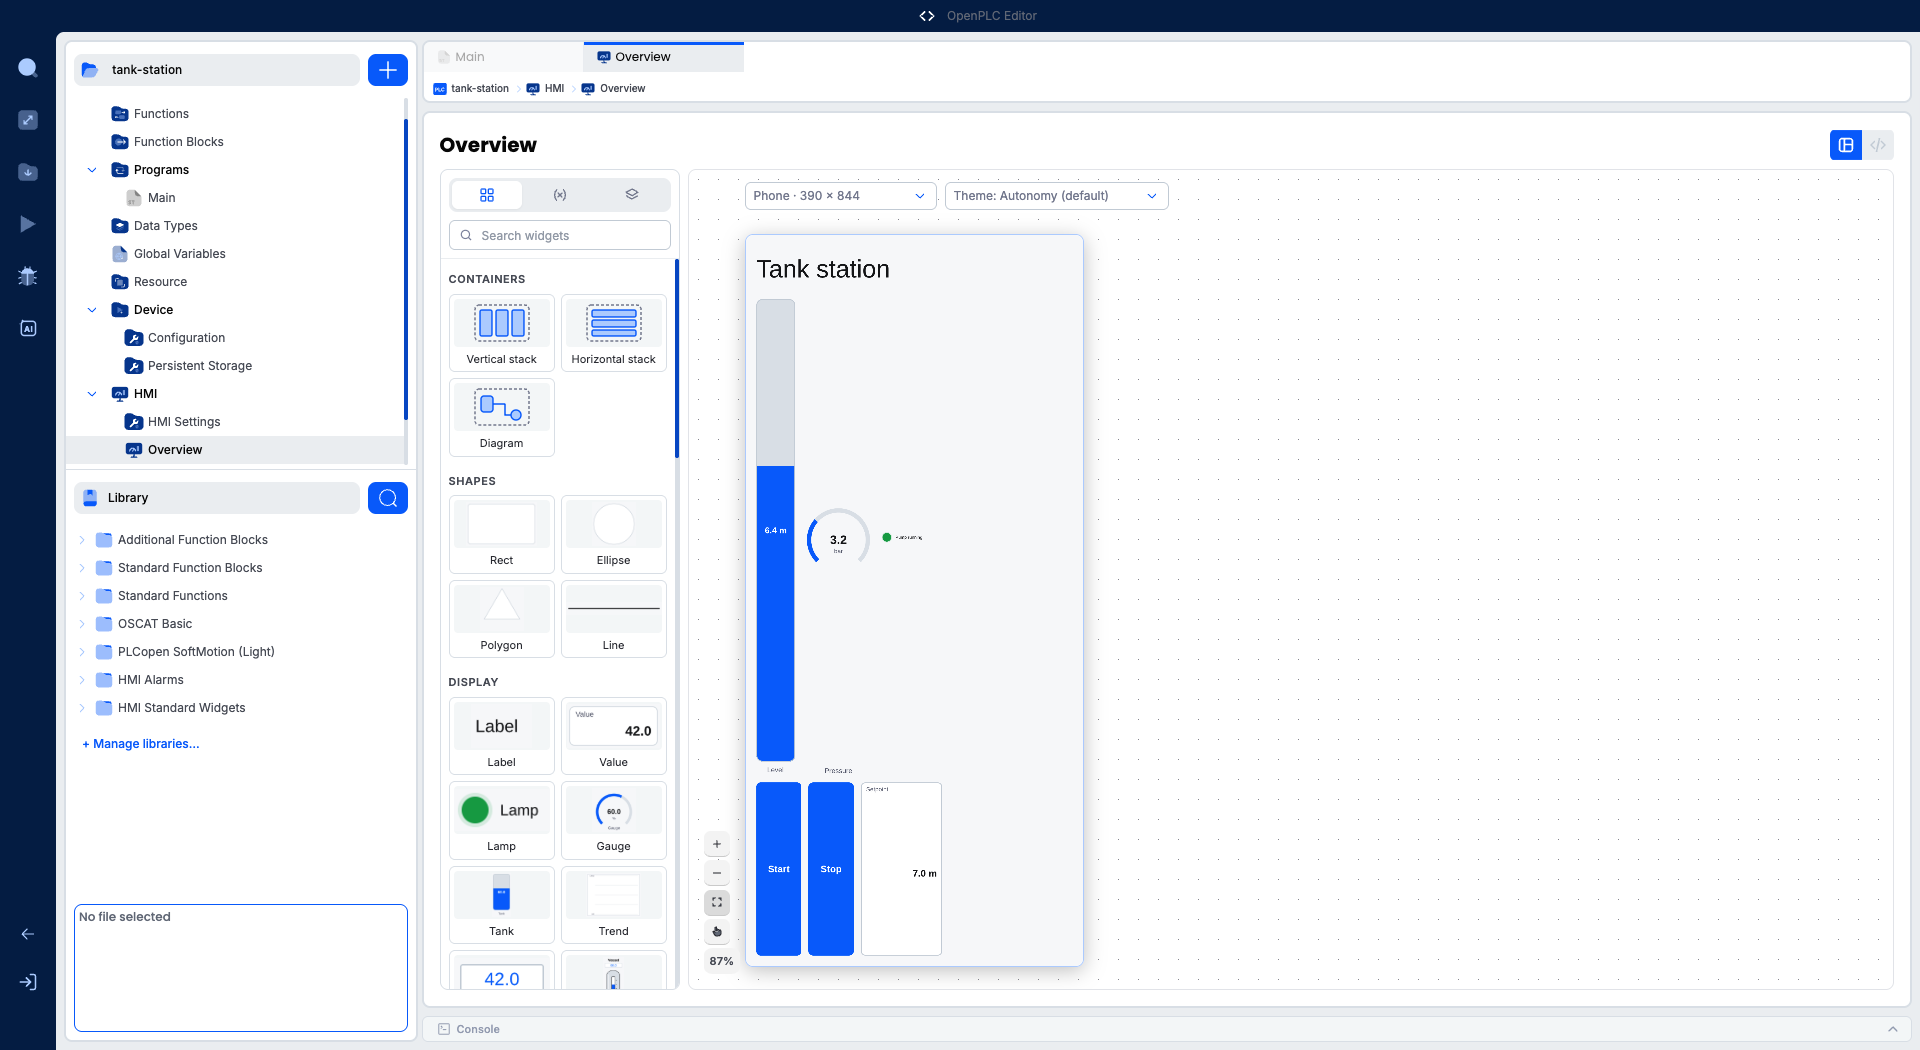
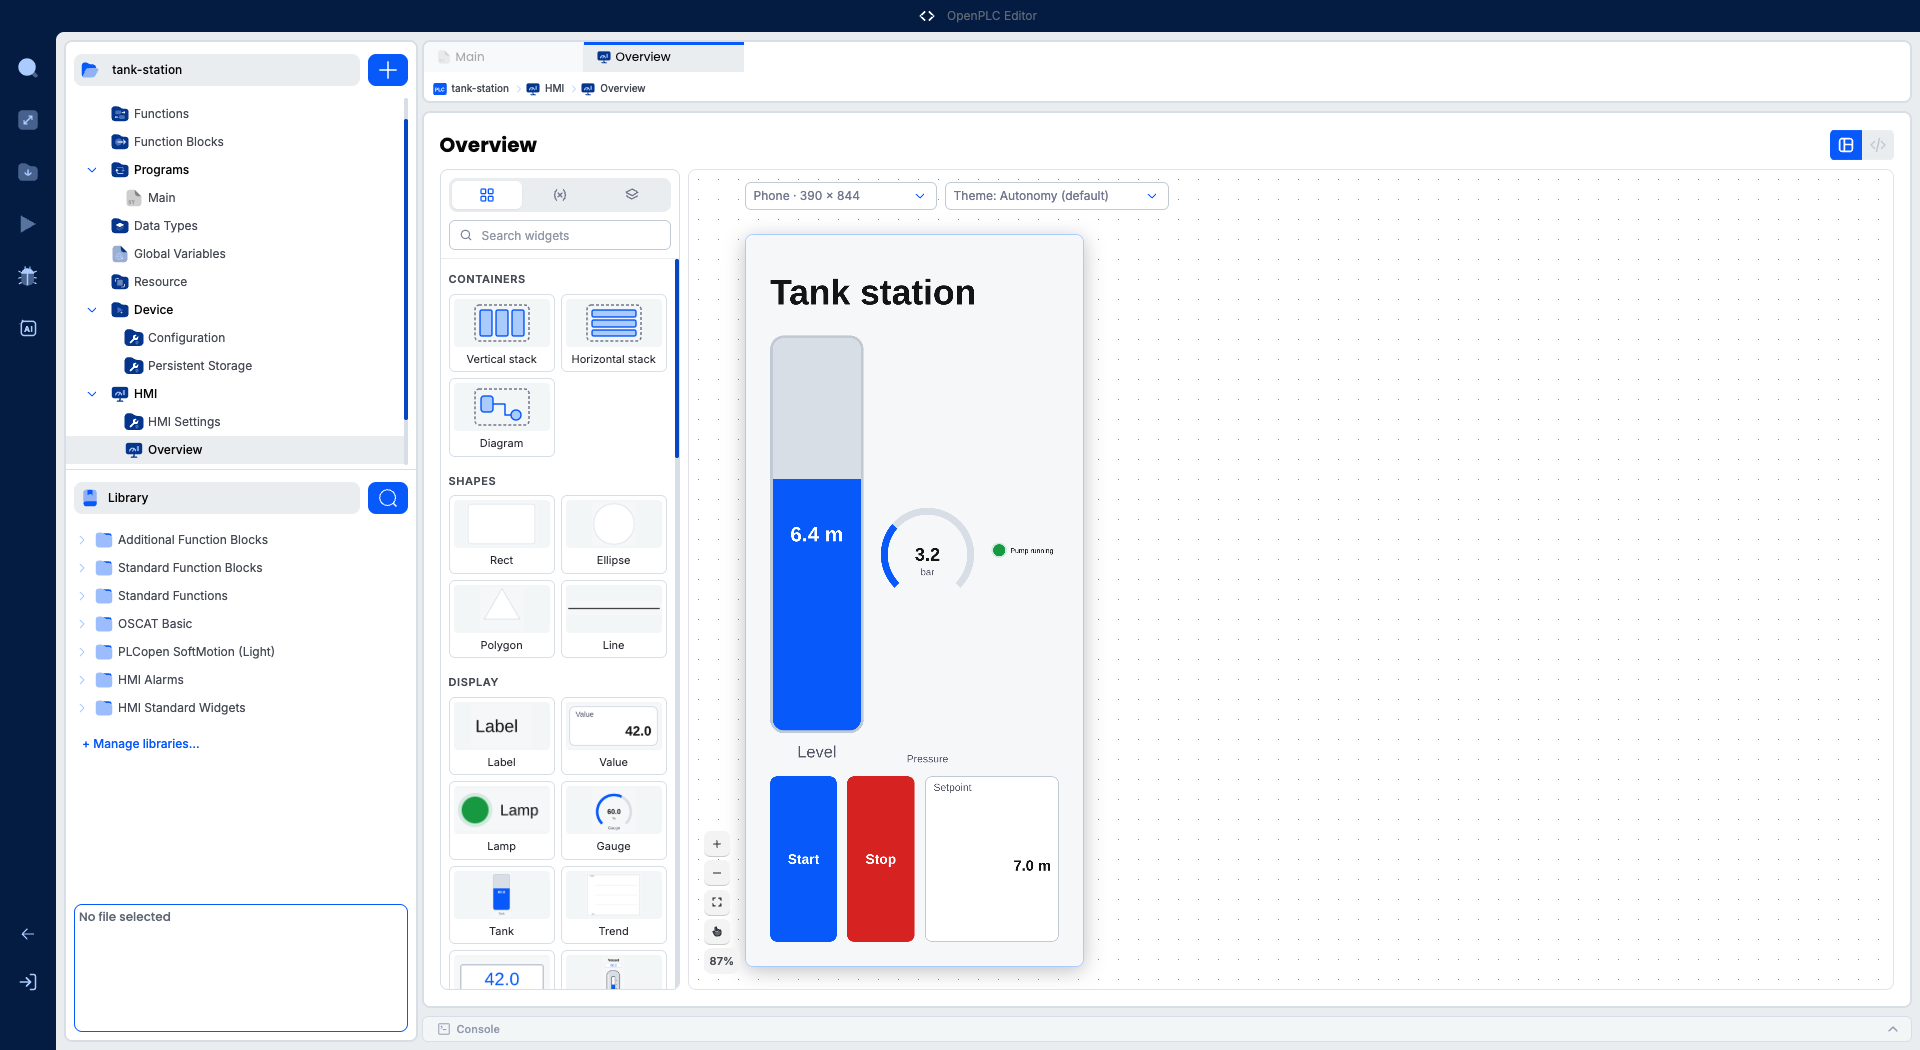
Share out the room in the HMI screen walkthrough
The walkthrough now sets each element's span so the finished screen
fills the display, with padding, gaps, a bold title and a red Stop
button, and the layout page shows that finished screen.

Claude-Session: https://claude.ai/code/session_01YB59x4JD6LNzCP8s5g9YDa

Changed region(s): [[0.375, 0.2438, 0.5312, 0.9143]]

diff --git a/docs/openplc-editor/hmi/designing-screens.md b/docs/openplc-editor/hmi/designing-screens.md
@@ -125,20 +125,45 @@ For the tank station, on the **Style** tab:
 - Tank: **Caption** `Level`, **Unit** `m`, **MaxValue** `10.0`. The tank now fills to 6.4 of 10.
 - Gauge: **Caption** `Pressure`, **Unit** `bar`, **MaxValue** `10.0`.
 - Lamp: **Caption** `Pump running`.
-- Numeric entry: **Unit** `m`, **MinValue** `0.0`, **MaxValue** `10.0`. Operators cannot enter a setpoint outside these limits.
-- Title: **Size** `24`.
+- Numeric entry: **Caption** `Setpoint`, **Unit** `m`, **MinValue** `0.0`, **MaxValue** `10.0`. Operators cannot enter a setpoint outside these limits.
+- Title: **Size** `24`, **Font** `Bold`.
+- Stop button: **AccentColor** `Danger`, so it stands out in red.
 
-![The Layers tab listing the screen's elements, and the tank selected with its Style tab showing MinValue 0.0, MaxValue 10.0, Decimals 1, Unit m and Caption Level. The tank now reads 6.4 m and the gauge 3.2 bar](images/steps-07-properties.png)
+![The Stop button selected, with its Style tab showing the Text Stop and the AccentColor Danger. The button is now red, the title is bold, the tank reads 6.4 m and the gauge 3.2 bar](images/steps-07-properties.png)
 
 Colors offer the theme's colors (like Accent, Danger or Surface), which follow the screen's theme, or a fixed color of your choice. **Show in code** at the bottom of the card opens the code view at that element's declaration.
 
 ---
 
-## Step 7. Try it
+## Step 7. Share out the room
+
+Each widget landed at its natural size, so the rows are only half full. Give each element the share of its stack you want, with **Span** on the **Layout** tab. A Span is a percentage of the stack, so these values fill the screen on any display:
+
+| Stack | Element | Span |
+|---|---|---|
+| The screen | Title | `10` |
+| | Process row | `65` |
+| | Commands row | `25` |
+| Process row | Tank | `35` |
+| | Gauge | `40` |
+| | Lamp | `25` |
+| Commands row | Start | `25` |
+| | Stop | `25` |
+| | Setpoint | `50` |
+
+You can also drag an element's handle along its stack instead of typing a Span. To leave some room around and between the widgets, set the screen container's **Padding** to `16` and each stack's **Gap** to `12`.
+
+![The finished screen filling the canvas: the bold title, a row with the tank, a large gauge and the pump lamp, and a row with the Start and Stop buttons and a wide Setpoint entry. The gauge is selected, and its Layout tab shows AutoSize on and a Span of 40](images/steps-08-fill-rows.png)
+
+See [Screen layout that fits any display](layout) for how spans are shared out.
+
+---
+
+## Step 8. Try it
 
 The canvas always runs the screen. To operate it the way an operator would, click the hand button under the zoom controls. Presses now reach the widgets instead of selecting them: press **Start** and **Stop**, or tap the setpoint to type a value. Press **Esc** to return to designing.
 
-![The finished screen in preview mode, outlined in blue, with the notice Preview mode, press Esc to exit](images/steps-08-preview-mode.png)
+![The finished screen in preview mode, outlined in blue, with the notice Preview mode, press Esc to exit](images/steps-09-preview-mode.png)
 
 Most edits show at once. Some changes, like editing code, need a new build of the preview: the editor builds it in the background on its own, and the last result stays on screen meanwhile.
 
@@ -146,11 +171,11 @@ Most edits show at once. Some changes, like editing code, need a new build of th
 
 ---
 
-## Step 8. Look at the code
+## Step 9. Look at the code
 
 Every screen is Structured Text. Click the **Code** button at the top right to see what the designer wrote for you:
 
-![The code view of the Overview screen: the element declarations with their properties and spans, the three variable bindings, the Start and Stop button handling and the setpoint binding](images/steps-09-code-view.png)
+![The code view of the Overview screen: the element declarations with their properties and spans, the three variable bindings, the Start and Stop button handling and the setpoint binding](images/steps-10-code-view.png)
 
 Each element is a declaration with its properties, and the variables you dropped are assignments in the body. Changes in one view appear in the other. You rarely need to write screen code, but it is there when you want it: to compute a value, to run logic on a button press, or to navigate between screens. See [Screen code](screen-code).
 

diff --git a/docs/openplc-editor/hmi/screen-code.md b/docs/openplc-editor/hmi/screen-code.md
@@ -13,16 +13,16 @@ This is the Overview screen from [Designing screens](designing-screens), as the 
 ```st
 FUNCTION_BLOCK Overview EXTENDS HmiScreen
   VAR
-    HorizontalStack1 : HmiHorizontalStack := (AutoSize := TRUE, Span := 100);
-    Label1 : HmiLabel := (Parent := 'HorizontalStack1', AutoSize := TRUE, Span := 9, Text := 'Tank station', Size := 24);
-    VerticalStack1 : HmiVerticalStack := (Parent := 'HorizontalStack1', AutoSize := TRUE, Span := 91);
-    Tank1 : HmiTank := (Parent := 'VerticalStack1', AutoSize := TRUE, Span := 13, Caption := 'Level', Unit := 'm', MaxValue := 10.0);
-    Gauge1 : HmiGauge := (Parent := 'VerticalStack1', AutoSize := TRUE, Span := 24, Caption := 'Pressure', Unit := 'bar', MaxValue := 10.0);
-    Lamp1 : HmiLamp := (Parent := 'VerticalStack1', AutoSize := TRUE, Span := 15, Caption := 'Pump running');
-    VerticalStack2 : HmiVerticalStack := (Parent := 'HorizontalStack1', AutoSize := TRUE, Span := 33);
-    Button1 : HmiButton := (Parent := 'VerticalStack2', AutoSize := TRUE, Span := 15, Text := 'Start');
-    Button2 : HmiButton := (Parent := 'VerticalStack2', AutoSize := TRUE, Span := 15, Text := 'Stop');
-    NumericInput1 : HmiNumericInput := (Parent := 'VerticalStack2', AutoSize := TRUE, Span := 27, Unit := 'm', MinValue := 0.0, MaxValue := 10.0);
+    HorizontalStack1 : HmiHorizontalStack := (AutoSize := TRUE, Span := 100, Padding := 16, Gap := 12);
+    Label1 : HmiLabel := (Parent := 'HorizontalStack1', AutoSize := TRUE, Span := 10, Text := 'Tank station', Size := 24, Font := HMI_FONT#Bold);
+    VerticalStack1 : HmiVerticalStack := (Parent := 'HorizontalStack1', AutoSize := TRUE, Span := 65, Gap := 12);
+    Tank1 : HmiTank := (Parent := 'VerticalStack1', AutoSize := TRUE, Span := 35, Caption := 'Level', Unit := 'm', MaxValue := 10.0);
+    Gauge1 : HmiGauge := (Parent := 'VerticalStack1', AutoSize := TRUE, Span := 40, Caption := 'Pressure', Unit := 'bar', MaxValue := 10.0);
+    Lamp1 : HmiLamp := (Parent := 'VerticalStack1', AutoSize := TRUE, Span := 25, Caption := 'Pump running');
+    VerticalStack2 : HmiVerticalStack := (Parent := 'HorizontalStack1', AutoSize := TRUE, Span := 25, Gap := 12);
+    Button1 : HmiButton := (Parent := 'VerticalStack2', AutoSize := TRUE, Span := 25, Text := 'Start');
+    Button2 : HmiButton := (Parent := 'VerticalStack2', AutoSize := TRUE, Span := 25, Text := 'Stop', AccentColor := COLOR.Danger);
+    NumericInput1 : HmiNumericInput := (Parent := 'VerticalStack2', AutoSize := TRUE, Span := 50, Caption := 'Setpoint', Unit := 'm', MinValue := 0.0, MaxValue := 10.0);
   END_VAR
   Tank1.Value := instance0.Main.Level;
   Gauge1.Value := instance0.Main.Pressure;

diff --git a/docs/openplc-editor/hmi/layout.md b/docs/openplc-editor/hmi/layout.md
@@ -22,7 +22,7 @@ Every widget sits in a container. There are three kinds:
 
 Stacks nest. The Overview screen above is a horizontal stack (the screen, top to bottom) holding a title, a row for the process widgets and a row for the commands. Each row is a vertical stack.
 
-![The Layers tab showing the screen's tree: HorizontalStack1 holding Label1, VerticalStack1 with Tank1, Gauge1 and Lamp1, and VerticalStack2 with Button1, Button2 and NumericInput1. VerticalStack1 is selected, and its Layout tab shows AutoSize on and a Span of 91](images/designer-layout-properties.png)
+![The Layers tab showing the screen's tree: HorizontalStack1 holding Label1, VerticalStack1 with Tank1, Gauge1 and Lamp1, and VerticalStack2 with Button1, Button2 and NumericInput1. VerticalStack1 is selected, and its Layout tab shows AutoSize on and a Span of 65](images/designer-layout-properties.png)
 
 Only containers sit directly on the screen, so a screen always starts with one: a new screen comes with a horizontal stack that fills it.
 
